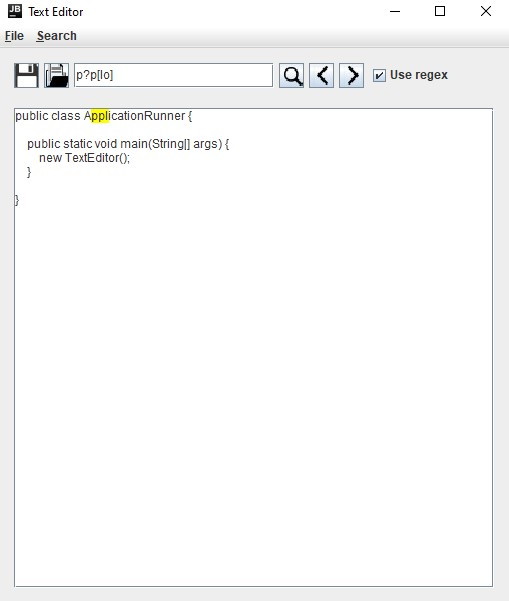
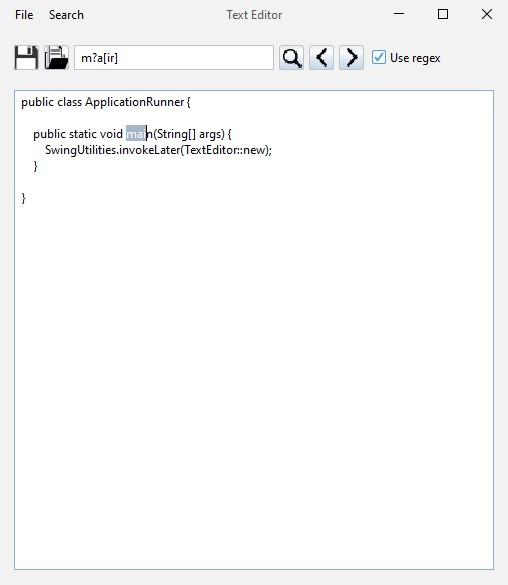
Enhance UI with FlatLaf

diff --git a/src/main/java/br/com/dv/editor/TextEditor.java b/src/main/java/br/com/dv/editor/TextEditor.java
@@ -10,6 +10,14 @@ import java.util.List;
 
 public class TextEditor extends JFrame {
 
+    static {
+        try {
+            UIManager.setLookAndFeel(new com.formdev.flatlaf.FlatLightLaf());
+        } catch (Exception e) {
+            e.printStackTrace();
+        }
+    }
+
     private JTextArea textArea;
     private JTextField searchField;
     private JCheckBox regexCheckBox;
